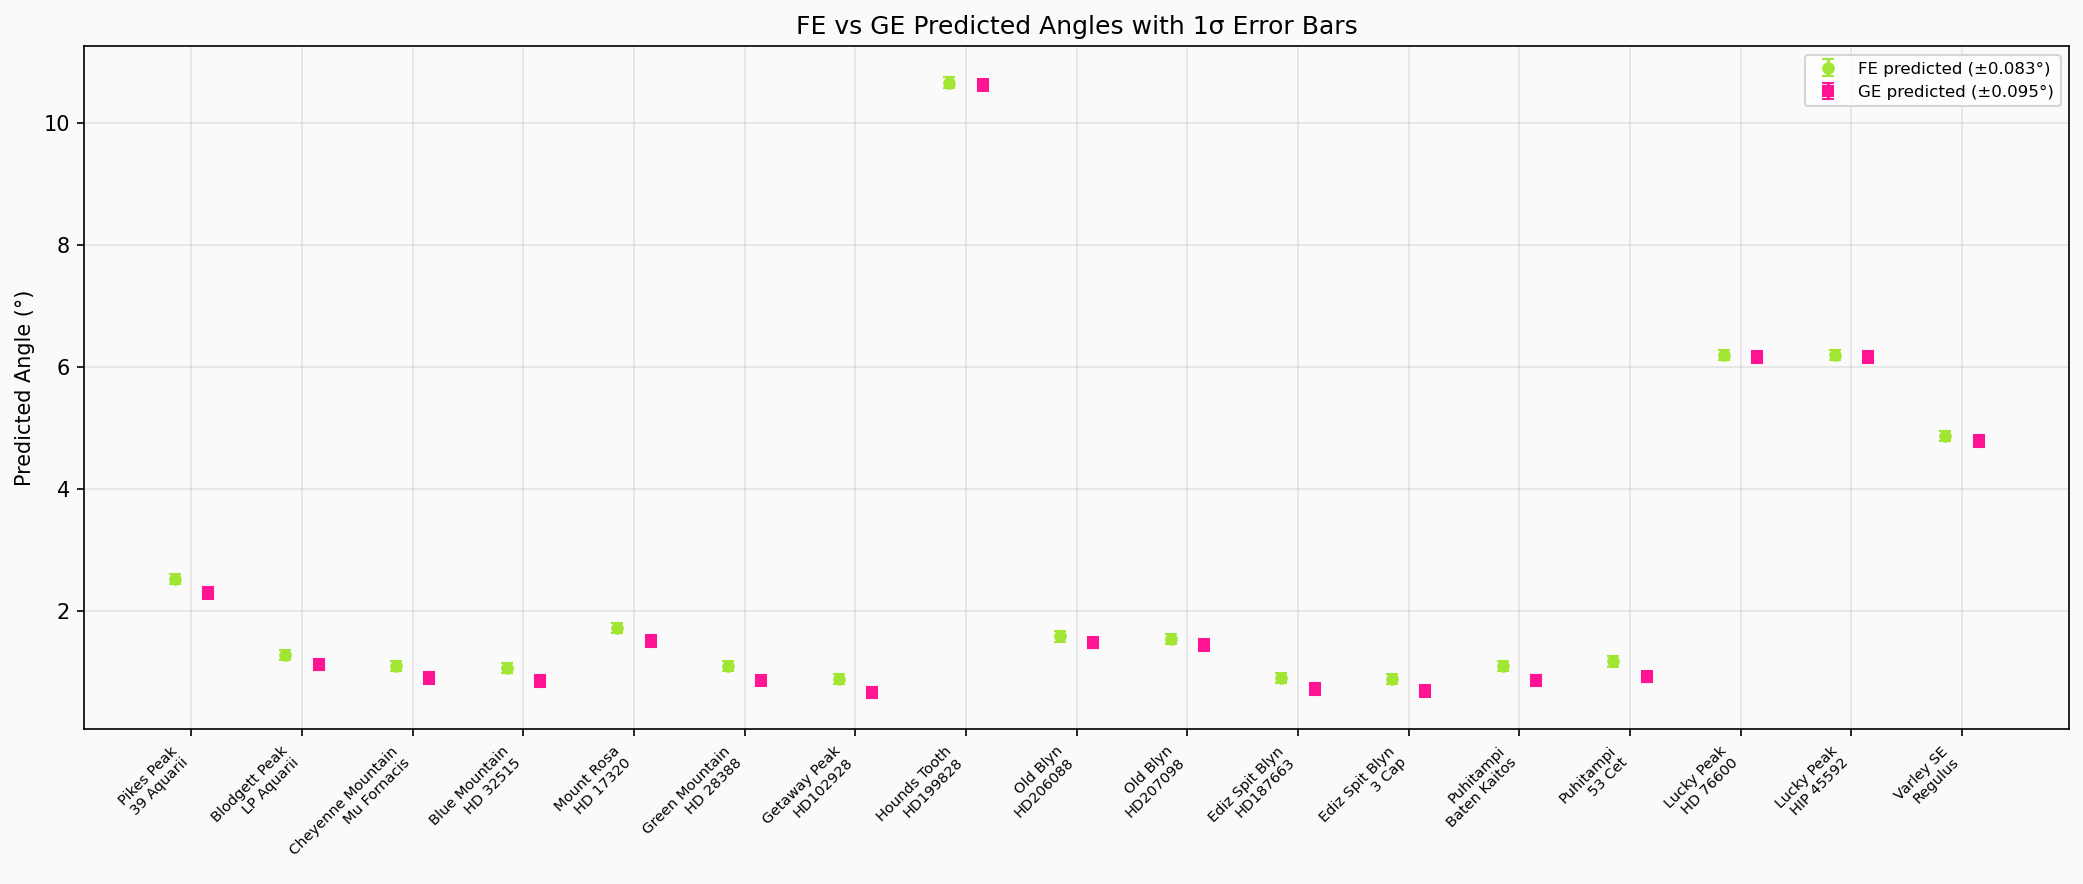
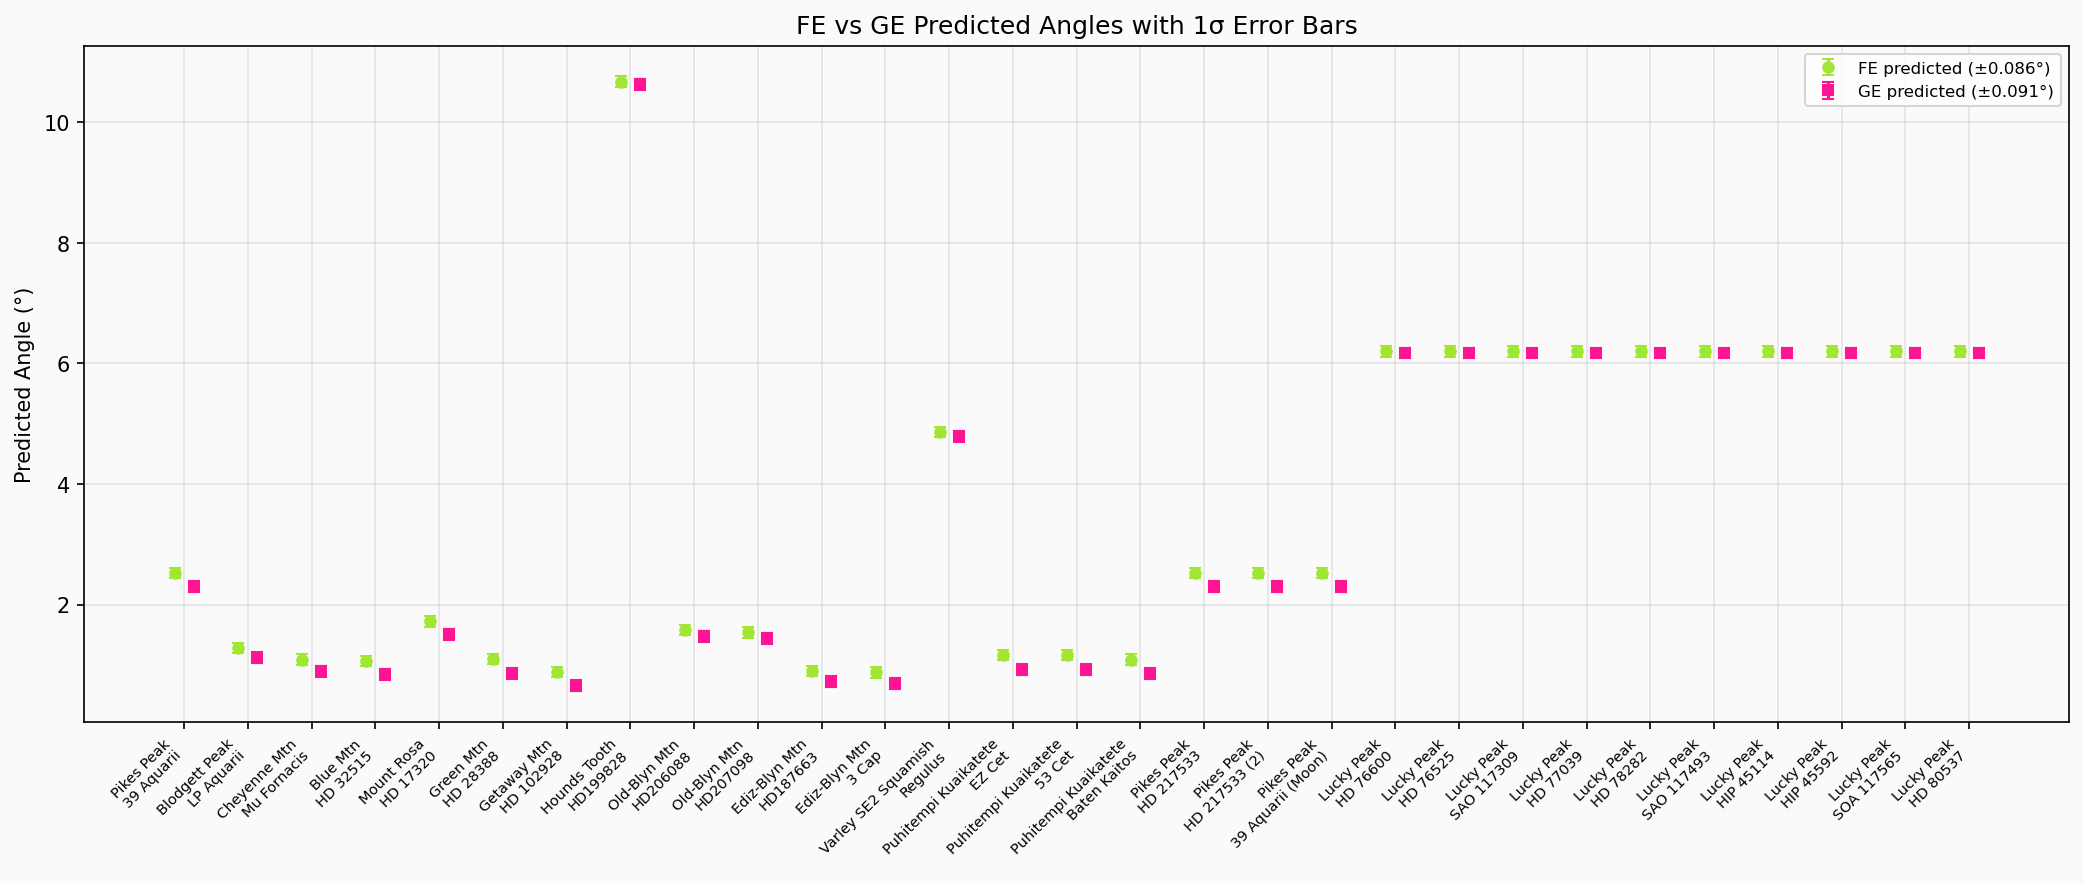
Recalculate Gaussian distribution from full-precision data (32 obs)
- Add derive_intersections.py to compute intersections.csv from the
  canonical data_table.csv (FE/GE predictions + residuals)
- Regenerated intersections.csv: 32 observations, 29 included (<100 km),
  3 North Peak excluded (>100 km), full 6-decimal-place precision
- Updated Gaussian fit (n=29): FE σ=0.086°, GE σ=0.091°
  FE closer in 29/29 observations, Wilcoxon p<0.0001
- plot_individuals.py: error bars now show ±2σ (matching pass/fail
  threshold), added red dashed reference line at predicted value for
  easy visual comparison — addresses llamazing's feedback on Blodgett
- Regenerated all 7 overview plots and 14 individual peak plots

diff --git a/plot_individuals.py b/plot_individuals.py
@@ -51,6 +51,9 @@ def safe_filename(name: str) -> str:
     return name.replace(" ", "_").replace("/", "-").lower()
 
 
+REF_COLOR = "#e74c3c"  # red reference line
+
+
 def plot_peak(peak_df: pd.DataFrame, peak_name: str, fe_sigma: float, ge_sigma: float):
     n = len(peak_df)
 
@@ -75,17 +78,25 @@ def plot_peak(peak_df: pd.DataFrame, peak_name: str, fe_sigma: float, ge_sigma: 
         ax.set_facecolor("#fafafa")
         x = np.arange(n)
         width = 0.3
+        sigma_2 = 2.0 * sigma  # error bars show ±2σ
 
         # Predicted bar (no error bar)
         ax.bar(x - width / 2, pred, width, color=color, alpha=0.8,
                label=f"{model_label} predicted")
-        # Measured bar with error bars (darker variant)
+        # Measured bar with 2σ error bars (darker variant)
         ax.bar(x + width / 2, meas, width, color=color_meas, alpha=0.8,
-               label=f"{model_label} measured", yerr=sigma, capsize=5,
+               label=f"{model_label} measured", yerr=sigma_2, capsize=5,
                error_kw={"lw": 1.2, "capthick": 1.2})
 
-        # Compute y-axis limits (error bars are on measured)
-        all_vals = np.concatenate([pred, meas + sigma, meas - sigma])
+        # Red reference line at predicted value extending to measured bar
+        for i in range(n):
+            ax.hlines(pred[i],
+                      x[i] - width, x[i] + width,
+                      colors=REF_COLOR, linewidths=1.8, linestyles="--",
+                      zorder=6, label="predicted ref" if i == 0 else "")
+
+        # Compute y-axis limits (error bars are 2σ on measured)
+        all_vals = np.concatenate([pred, meas + sigma_2, meas - sigma_2])
         data_top = all_vals.max()
         data_bottom = all_vals.min()
         data_span = max(data_top - data_bottom, 0.3)
@@ -99,7 +110,7 @@ def plot_peak(peak_df: pd.DataFrame, peak_name: str, fe_sigma: float, ge_sigma: 
         for i in range(n):
             drop_dd = peak_df["GE_terrestrial_drop_dd"].values[i]
             dist_m = distance_from_drop(drop_dd)
-            err_m = sigma_to_meters(sigma, dist_m)
+            err_m = sigma_to_meters(sigma_2, dist_m)
 
             # How many sigma is the prediction from the measurement?
             n_sigma = abs(pred[i] - meas[i]) / sigma
@@ -116,9 +127,9 @@ def plot_peak(peak_df: pd.DataFrame, peak_name: str, fe_sigma: float, ge_sigma: 
                 verdict = f"OUTSIDE 2\u03c3 ({n_sigma:.1f}\u03c3)"
                 v_color = "#c0392b"  # red
 
-            y_label = max(pred[i], meas[i] + sigma) + text_offset
+            y_label = max(pred[i], meas[i] + sigma_2) + text_offset
             ax.text(x[i], y_label,
-                    f"Δ={delta[i]:+.2f}° (±{err_m:.0f} m)",
+                    f"\u0394={delta[i]:+.4f}\u00b0 (\u00b1{err_m:.0f} m)",
                     ha="center", va="bottom", fontsize=8, color=color_meas, fontweight="bold")
 
             # Pass/fail badge above the delta label
@@ -132,13 +143,13 @@ def plot_peak(peak_df: pd.DataFrame, peak_name: str, fe_sigma: float, ge_sigma: 
         for i in range(n):
             drop = peak_df["GE_terrestrial_drop_dd"].values[i]
             ax.text(x[i], min(pred[i], meas[i]) - text_offset,
-                    f"drop = {drop:.2f}°",
+                    f"drop = {drop:.4f}\u00b0",
                     ha="center", va="top", fontsize=8, color="black", fontweight="bold")
 
         ax.set_xticks(x)
         ax.set_xticklabels(stars, fontsize=9)
-        ax.set_ylabel("Angle (°)")
-        ax.set_title(model_label, fontsize=11)
+        ax.set_ylabel("Angle (\u00b0)")
+        ax.set_title(f"{model_label}  (error bars = \u00b12\u03c3)", fontsize=11)
         ax.legend(fontsize=8, loc="upper right")
         ax.grid(axis="y", alpha=0.3)
 

diff --git a/derive_intersections.py b/derive_intersections.py
@@ -1,0 +1,92 @@
+#!/usr/bin/env python3
+"""
+Derive intersections.csv from the canonical data_table.csv.
+
+Computes FE/GE predicted angles and residuals from raw observation data
+exported from the Celestial Theodolite Calculator spreadsheet v9.1.1.
+
+Formulas:
+    FE_pred  = arctan((Peak_Alt - Obs_Alt) / Distance)   [degrees]
+    GE_drop  = Distance / (2 * R_earth)                   [degrees]
+    GE_pred  = FE_pred - GE_drop
+    ΔFE      = FE_pred - Star->Peak ♈
+    ΔGE      = GE_pred - Star->Obs ♈
+"""
+
+import numpy as np
+import pandas as pd
+from pathlib import Path
+
+DATA_DIR = Path(__file__).resolve().parent / "data"
+R_EARTH_M = 6_371_000
+
+
+def main():
+    dt = pd.read_csv(DATA_DIR / "data_table.csv")
+    dt.columns = dt.columns.str.strip()
+
+    # Core measurement columns
+    peak_alt = dt["Peak Alt (m)"].astype(float)
+    obs_alt = dt["Obs Alt (m)"].astype(float)
+    distance = dt["Distance (m)"].astype(float)
+    star_peak_aries = dt["Star->Peak ♈ (dd)"].astype(float)
+    star_obs_aries = dt["Star->Obs ♈ (dd)"].astype(float)
+    star_obs_epsilon = dt["Star->Obs ϵ (dd)"].astype(float)
+
+    # FE predicted angle: arctan(Δalt / distance)
+    fe_pred = np.degrees(np.arctan((peak_alt - obs_alt) / distance))
+
+    # GE terrestrial drop: distance / (2R)
+    ge_drop = np.degrees(distance / (2 * R_EARTH_M))
+
+    # GE predicted angle
+    ge_pred = fe_pred - ge_drop
+
+    # Residuals
+    delta_fe = fe_pred - star_peak_aries
+    delta_ge = ge_pred - star_obs_aries
+
+    # Format dates from M/D/YYYY to YYYY-MM-DD
+    dates = pd.to_datetime(dt["Occlusion Date"].str.strip(), format="%m/%d/%Y")
+    date_str = dates.dt.strftime("%Y-%m-%d")
+
+    # Build output DataFrame
+    out = pd.DataFrame({
+        "Peak": dt["Peak Name"].str.strip(),
+        "Star": dt["Star Name"].str.strip(),
+        "Date": date_str,
+        "Time": dt["Occlusion Time"].str.strip(),
+        "FE_pred_angle_dd": fe_pred.round(6),
+        "ΔFE_intersection_dd": delta_fe.round(6),
+        "GE_terrestrial_drop_dd": ge_drop.round(6),
+        "GE_pred_angle_dd": ge_pred.round(6),
+        "ΔGE_intersection__dd": delta_ge.round(6),
+        "θStar,Obs,Apparent": star_obs_epsilon,
+        "Distance (m)": distance.round(4),
+        "θStar,Obs,True": star_obs_aries,
+    })
+
+    out_path = DATA_DIR / "intersections.csv"
+    out.to_csv(out_path, index=False)
+
+    print(f"Wrote {len(out)} observations to {out_path}")
+    print(f"  Peaks: {out['Peak'].nunique()}")
+    print(f"  Date range: {out['Date'].min()} to {out['Date'].max()}")
+
+    # Quick summary
+    max_dist = 100_000
+    dist_est = 2.0 * R_EARTH_M * np.deg2rad(ge_drop)
+    included = dist_est <= max_dist
+    n_inc = included.sum()
+    n_exc = (~included).sum()
+    print(f"  Included (<100 km): {n_inc}")
+    print(f"  Excluded (>100 km): {n_exc}")
+
+    fe_sigma = delta_fe[included].std()
+    ge_sigma = delta_ge[included].std()
+    print(f"  FE σ = {fe_sigma:.6f}°")
+    print(f"  GE σ = {ge_sigma:.6f}°")
+
+
+if __name__ == "__main__":
+    main()
